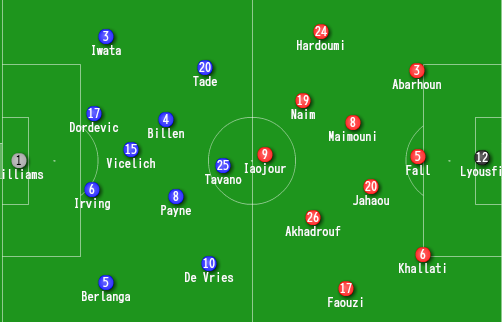
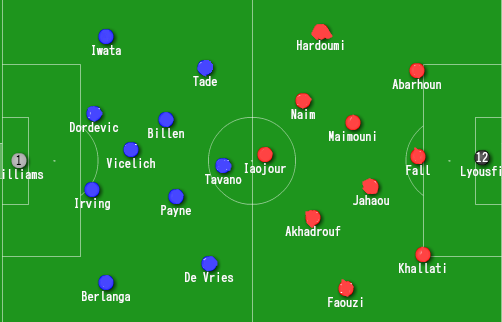
Debugging

diff --git a/Main.m b/Main.m
@@ -11,10 +11,10 @@ for compress=1:1
 maxNumCompThreads(8);
 %%fprintf('Hilos: %d\n',maxNumCompThreads);
 
-I = imread('test1.jpg');
-TeamMap = imread('test1.jpg');
-T = imread('test1.jpg');
-T2 = imread('test1.jpg');
+I = imread('i.png');
+TeamMap = imread('i.png');
+T = imread('i.png');
+T2 = imread('i.png');
 
 %figure, imshow(I);
 
@@ -478,15 +478,15 @@ for compress=1:1
         PlayerColors(k,2) = max_GLevels;
         PlayerColors(k,3) = max_BLevels;
         
-       %fprintf("Player %d color (%d,%d,%d)\n",k,PlayerColors(k,1),PlayerColors(k,2),PlayerColors(k,3));
-       %figure, imshow(tmp_Player);
+       fprintf("Player %d color (%d,%d,%d)\n",k,PlayerColors(k,1),PlayerColors(k,2),PlayerColors(k,3));
+       figure, imshow(tmp_Player);
        
     end        
     
     SetTeam();
     
     for k=1:NBlobs
-        %fprintf("Player %d is team %d\n",k,FinalBlobs(k).team);
+        fprintf("Player %d is team %d\n",k,FinalBlobs(k).team);
     end
 end     
 
@@ -635,12 +635,11 @@ global FinalBlobs;
 global PlayerColors;
 n = size(PlayerColors);
 
-tRth = 50;
-tGth = 50;
-tBth = 50;
+tRth = 90;
+tGth = 90;
+tBth = 90;
 
 team_id = 1;
-counter = 0;
 
 for i=1:n
     
@@ -665,24 +664,26 @@ for i=1:n
                    (PlayerColors(i,1)+tRth > PlayerColors(j,1) && PlayerColors(i,1)-tRth < PlayerColors(j,1)) && ...
                    (PlayerColors(i,2)+tGth > PlayerColors(j,2) && PlayerColors(i,2)-tGth < PlayerColors(j,2)) && ...
                    (PlayerColors(i,3)+tBth > PlayerColors(j,3) && PlayerColors(i,3)-tBth < PlayerColors(j,3)) && ...
-                   FinalBlobs(j).team < 1)              
-               
+                   FinalBlobs(j).team < 1)                                                           
+
                 FinalBlobs(j).team=team_id;
                 counter = counter+1;
-                %fprintf("SET:: Player %d is team %d\n",j,FinalBlobs(j).team);               
+                %fprintf("SET:: Player %d is team %d\n",j,FinalBlobs(j).team); 
 
             end
 
         end
       
+        team_id = team_id+1;
+
+        if (counter == 0)
+            FinalBlobs(i).team=-1;        
+            team_id = team_id-1;
+        end        
+
     end
             
-    team_id = team_id+1;
-
-    if (counter == 0)
-        FinalBlobs(i).team=-1;        
-        team_id = team_id-1;
-    end           
+   
         
 end
 
